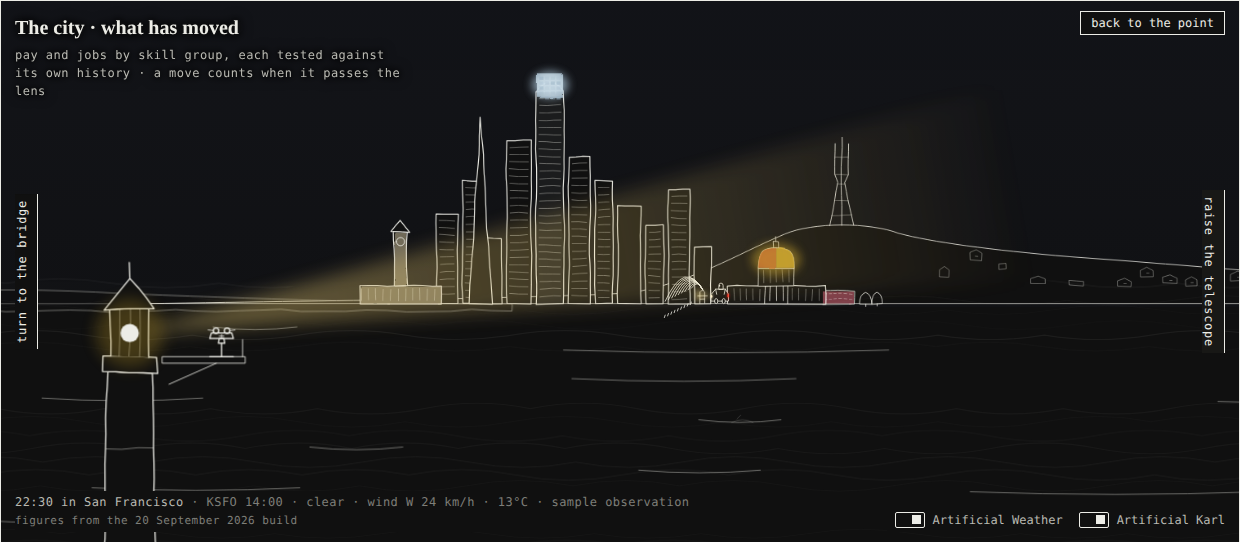
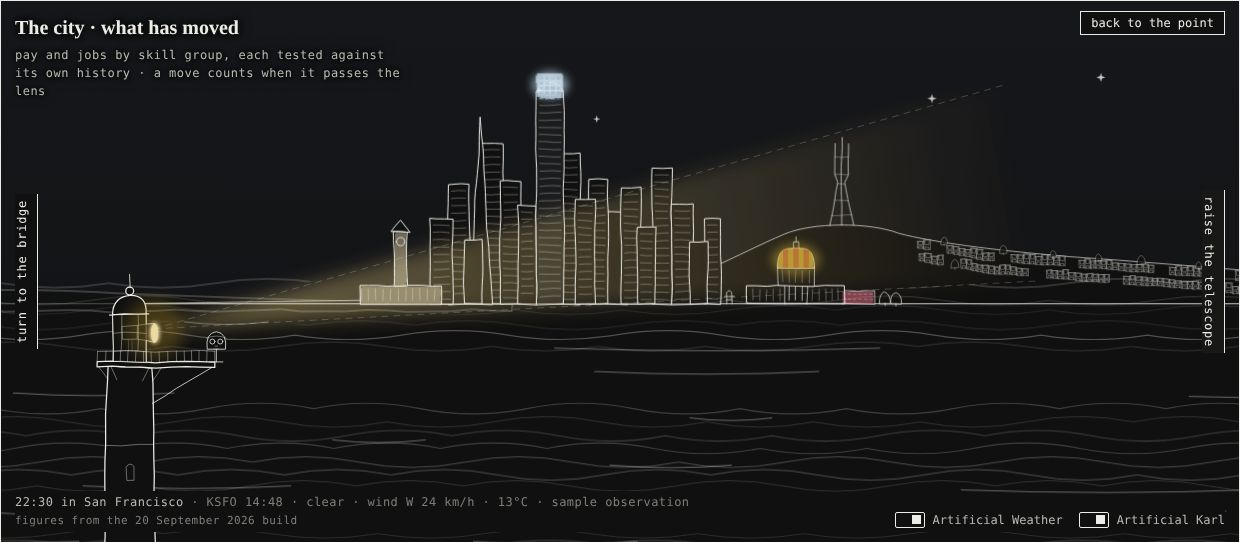
Front page: the lamp turns behind the glass and the hatched light leaves from its lens in every view; sun, moon and stars whole or not at all; City Hall lit in stripes; the hydrant's water alive; one launch at a time from different places; a whale's tail and a sailboat on the bay; the bear later; ci

diff --git a/docs/mockup/index.html b/docs/mockup/index.html
@@ -75,6 +75,7 @@ header.top{display:flex;align-items:baseline;justify-content:space-between;gap:1
 .carlight{opacity:0;transition:opacity .3s}.night .carlight{opacity:1}
 .lamp{filter:url(#lamp)}.beamcone{filter:url(#lampwide)}
 .tail{opacity:0;transition:opacity .2s}.night .tail{opacity:.45}.braking .tail{opacity:1}.night .braking .tail{fill:#FF2A1F !important;filter:url(#lamp)}
+#celes{transition:opacity .8s}
 .star{animation:twinkle 8s ease-in-out infinite;opacity:.85}
 @keyframes twinkle{0%,70%,100%{opacity:.85}78%{opacity:.15}86%{opacity:.9}}
 .water{animation:swell 6s ease-in-out infinite alternate}
@@ -237,6 +238,7 @@ header.top{display:flex;align-items:baseline;justify-content:space-between;gap:1
       </defs>
       <g class="zoom"><g id="skyall"><rect class="skywash" x="0" y="0" width="1600" height="342" fill="url(#skygrad)"/>
       <g id="sky" class="scene sky thin"></g></g></g>
+      <g id="celes" class="scene sky thin"></g>
       <g id="lifeback" class="life scene"></g>
     </svg>
     <!-- ================= the one scene from the point, painted once; the colour lies over the ink ================= -->
@@ -376,13 +378,15 @@ header.top{display:flex;align-items:baseline;justify-content:space-between;gap:1
     el("path", {d:`M${x+w/2+46} ${top+34} L ${x+w/2} ${top+62}`, class:"thin"}, g);
     // the lantern room: glass between mullions, on a low parapet
     el("path", {d:`M${x-13} ${top+30} L ${x-13} ${top-6} L ${x+13} ${top-6} L ${x+13} ${top+30} Z`, style:P}, g);
-    el("path", {d:`M${x-13} ${top+22} L ${x+13} ${top+22} M${x-6.5} ${top-6} L ${x-6.5} ${top+22} M${x+6.5} ${top-6} L ${x+6.5} ${top+22} M${x-13} ${top+8} L ${x+13} ${top+8}`, class:"hair"}, g);
+    const lampAt = el("g", {}, g);                                              // the lamp goes here, inside the room, behind the glass
+    el("path", {d:`M${x-13} ${top+30} L ${x-13} ${top-6} L ${x+13} ${top-6} L ${x+13} ${top+30} Z`, style:"fill:var(--paper);fill-opacity:.5;stroke:none"}, g);
+    el("path", {d:`M${x-13} ${top+22} L ${x+13} ${top+22} M${x-6.5} ${top-6} L ${x-6.5} ${top+22} M${x+6.5} ${top-6} L ${x+6.5} ${top+22} M${x-13} ${top+8} L ${x+13} ${top+8} M${x-13} ${top-6} L ${x-13} ${top+30} M${x+13} ${top-6} L ${x+13} ${top+30}`, class:"hair"}, g);
     // the roof: a shallow dome, its eave, the ventilator ball and the rod
     el("path", {d:`M${x-15} ${top-6} L ${x+15} ${top-6} M${x-13} ${top-6} Q ${x-13} ${top-20} ${x} ${top-21} Q ${x+13} ${top-20} ${x+13} ${top-6} Z`, style:P}, g);
     el("circle", {cx:x, cy:top-24, r:3, style:P}, g); el("path", {d:`M${x} ${top-27} L ${x} ${top-37}`, class:"thin"}, g);
     el("circle", {cx:x, cy:top+8, r:22, class:"halo", id:"halo"}, g);
     // the lamp: a drum on its yoke and a short barrel ending in the lens; it pokes out of the glass on the side it faces
-    const lamp = el("g", {id:"lamp", transform:`translate(${x},${top+8})`}, g);
+    const lamp = el("g", {id:"lamphead", transform:`translate(${x},${top+8})`}, lampAt);
     el("path", {d:"M -1.5 5 L -1.5 14 M 1.5 5 L 1.5 14", class:"hair"}, lamp);
     el("path", {d:"M -6 -5 L 6 -5 L 6 5 L -6 5 Z", class:"thin", style:P}, lamp);
     el("path", {d:"M 6 -5 L 19 -7 L 19 7 L 6 5 Z", class:"thin", style:P}, lamp);
@@ -511,17 +515,20 @@ header.top{display:flex;align-items:baseline;justify-content:space-between;gap:1
     const ridgeY = u => { for (let i=1;i<ridge.length;i++) if (u <= ridge[i][0]){ const [a, ya] = ridge[i-1], [b, yb] = ridge[i]; return ya + (yb-ya)*(u-a)/(b-a); } return -86; };
     { const rh = rng(97);
       const tree = (x, base, r) => el("path", {d:`M${x-r} ${base} q 0 ${-r*1.6} ${r} ${-r*1.9} q ${r} ${r*.3} ${r} ${r*1.9} z M${x} ${base} l 0 2`, class:"hair", style:"fill:var(--paper)"}, g);
-      // three rows, the highest first so the lower ones stand in front of it
-      for (const depth of [9, 21, 33]){
-        let u = 4 + rh()*10;
+      const house = (x, base, w_, h_) => {
+        el("path", {d:`M${x} ${base} L ${x} ${base-h_} L ${x+w_} ${base-h_} L ${x+w_} ${base} Z M${x-.5} ${base-h_} L ${x+w_+.5} ${base-h_}`, class:"hair", style:"fill:var(--paper)"}, g);
+        // a bay window above, a garage door below, as on the avenues
+        el("path", {d:`M${x+1.3} ${base-h_+1.6} L ${x+1.3} ${base-h_*.5} L ${x+w_-1.3} ${base-h_*.5} L ${x+w_-1.3} ${base-h_+1.6} M${x+1.6} ${base} L ${x+1.6} ${base-2.4} L ${x+w_-1.6} ${base-2.4} L ${x+w_-1.6} ${base}`, class:"hair"}, g); };
+      // two long rows along the contours, each broken by cross streets; the upper row first, so the lower stands in front
+      for (const depth of [15, 36]){
+        let u = 6 + rh()*10, run = 0, runLen = 6 + Math.floor(rh()*6);
         while (u < 600){
-          const base = b0 + ridgeY(u) + depth; if (base > b0 - 4){ u += 12; continue; }
-          if (rh() < .2){ tree(ox+u+5, base, 4 + rh()*2.5); u += 12 + rh()*10; continue; }          // a tree, or a gap in the row
-          if (rh() < .07){ u += 10 + rh()*14; continue; }
-          const w_ = 7 + rh()*4, h_ = 5 + rh()*3, pitched = rh() < .25, x = ox + u;
-          el("path", {d:`M${x} ${base} L ${x} ${base-h_} ${pitched ? `L ${x+w_/2} ${base-h_-3}` : ""} L ${x+w_} ${base-h_} L ${x+w_} ${base} Z`, class:"hair", style:"fill:var(--paper)"}, g);
-          if (rh() < .55) el("path", {d:`M${x+2} ${base-h_*.5} l 2.4 0`, class:"hair"}, g);
-          u += w_ - .2; } } }
+          const base = b0 + ridgeY(u) + depth; if (base > b0 - 5){ u += 10; continue; }
+          if (run >= runLen){ if (rh() < .5) tree(ox+u+8, base, 4 + rh()*2); u += 18 + rh()*10; run = 0; runLen = 6 + Math.floor(rh()*6); continue; }
+          const w_ = 9.5 + rh()*2.5, h_ = (rh() < .7 ? 11.5 : 15) + rh()*1.5;
+          house(ox + u, base, w_, h_); u += w_; run++; } }
+      // and trees along the top of the slope, above the houses
+      for (let u = 20; u < 590; u += 38 + rh()*40){ const base = b0 + ridgeY(u) + 3; if (base < b0 - 5) tree(ox + u, base, 3.5 + rh()*2); } }
     const sx = ox+700, sy = baseY-104;
     // Sutro: three masts, the outer pair upright at the top, pinched to a waist, splayed to the feet, tied by struts
     const H = 100;
@@ -586,8 +593,9 @@ header.top{display:flex;align-items:baseline;justify-content:space-between;gap:1
     const L = el("g", {transform:cityTransform}, LIGHTS), ox = 0, baseY = 8, [ca, cb] = nightPair(d);
     // the dome, split by the pair
     const hv = ox+CH, gy = baseY-8;
-    tint(L, domeHalf(hv, gy-44, 44, 24, -1), ca).classList.add("nightlight");
-    tint(L, domeHalf(hv, gy-44, 44, 24, 1), cb).classList.add("nightlight");
+    if (!$("#domeclip")){ const cp = el("clipPath", {id:"domeclip", clipPathUnits:"userSpaceOnUse"}, el("defs", {}, $("#L-lights"))); el("path", {d:domePath(hv, gy-44, 44, 24)}, cp); }
+    const stripes = el("g", {class:"nightlight", "clip-path":"url(#domeclip)"}, L);
+    for (let i=0;i<7;i++) el("rect", {x:hv-22 + i*44/7, y:gy-70, width:44/7 + .3, height:28, style:`fill:${i % 2 ? cb : ca};stroke:none;opacity:.85`}, stripes);
     // the crown: a soft wash and a grid of blocks that breathe out of step
     el("ellipse", {cx:hv, cy:gy-54, rx:30, ry:20, class:"nightlight", filter:"url(#glow)", style:`fill:${ca};stroke:none;fill-opacity:.5`}, L);
     el("ellipse", {cx:ox+1057, cy:baseY-276, rx:22, ry:16, class:"nightlight", filter:"url(#glow)", style:"fill:#9FB7C9;stroke:none"}, L);
@@ -641,16 +649,15 @@ header.top{display:flex;align-items:baseline;justify-content:space-between;gap:1
     const L = el("g", {"clip-path":"url(#eye-l)"}, g), R = el("g", {"clip-path":"url(#eye-r)"}, g);
     // left: the hills behind, the campus on its slope, its campanile over the trees, the bay in front
     // the hills behind: a ridge crowned with a ragged line of trees, a raised stand of them with a mast in it, then a sharp drop to the lower ridge
-    { const rr = rng(83), Lm = el("g", {transform:"translate(1300,0) scale(-1,1)"}, L);   // mirrored: the crest and its trees to the right, the cut to the left
-      let d = "M 480 400 L 480 304 C 500 300, 516 296, 530 292", x = 530;
-      const crown = u => u < 596 ? 292 - (u-530)/66*50 : 242 + (u-596)*0.08;              // the canopy's line: rising to its crest, then nearly level
-      while (x < 612){ const w = 5 + rr()*13, top = Math.min(crown(x), crown(x+w)) - 2 - rr()*7; d += ` Q ${(x+w*.5).toFixed(1)} ${top.toFixed(1)} ${(x+w).toFixed(1)} ${(crown(x+w) + rr()*2).toFixed(1)}`; x += w; }
-      d += ` Q ${(x+3).toFixed(1)} 254 ${(x+2).toFixed(1)} 264 Q ${(x+4).toFixed(1)} 272 ${(x+9).toFixed(1)} 275`; x += 9;   // the steep cut where the trees end
-      while (x < 820){ const w = 5 + rr()*9, y = 275 + (x-621)*0.04; d += ` Q ${(x+w/2).toFixed(1)} ${(y - 2 - rr()*4).toFixed(1)} ${(x+w).toFixed(1)} ${y.toFixed(1)}`; x += w; }
-      el("path", {d: d + " L 820 400 Z", class:"thin", style:"fill:var(--paper)"}, Lm);
+    { const rr = rng(83);
+      const crown = u => u < 598 ? 280 - (u-480)*0.03 : u < 664 ? 276 - (u-598)/66*40 : u < 740 ? 236 - Math.sin((u-664)/76*Math.PI)*3 : 236 + (u-740)*0.2;
+      const bump = u => (u > 598 && u < 760) ? 3 + rr()*6 : 1.5 + rr()*3.5;           // the raised trees on the mane, lower ones elsewhere
+      let d = `M 480 400 L 480 ${crown(480).toFixed(1)}`, x = 480;
+      while (x < 820){ const w = (x > 598 && x < 760 ? 6 : 5) + rr()*9; d += ` Q ${(x+w*.5).toFixed(1)} ${(Math.min(crown(x), crown(x+w)) - bump(x)).toFixed(1)} ${(x+w).toFixed(1)} ${(crown(x+w) + rr()*1.5).toFixed(1)}`; x += w; }
+      el("path", {d: d + " L 820 400 Z", class:"thin", style:"fill:var(--paper)"}, L);
       // the grass below the trees: the hill's own shoulder, and a pale fold lower down
-      el("path", {d:"M 500 322 C 570 306, 640 298, 706 296 C 750 296, 790 300, 820 304", class:"hair"}, Lm);
-      el("path", {d:"M 540 342 C 600 332, 670 330, 740 336", class:"hair"}, Lm);
+      el("path", {d:"M 480 312 C 560 304, 640 294, 700 288 C 760 284, 800 290, 820 294", class:"hair"}, L);
+      el("path", {d:"M 520 336 C 600 326, 680 322, 760 328", class:"hair"}, L);
     }
     box(L, 616, 352, 56, 42, true); box(L, 706, 360, 70, 34, true); box(L, 530, 370, 30, 24, false);
     el("path", {d:"M 579 394 L 579 244 L 576 244 L 590 222 L 604 244 L 601 244 L 601 394 Z", style:"fill:var(--paper);stroke:none"}, L);
@@ -669,7 +676,6 @@ header.top{display:flex;align-items:baseline;justify-content:space-between;gap:1
     for (let i=0;i<2;i++){ const y = 452 + i*14; el("path", {d:`M ${510 + i*10} ${y} q 40 -3 80 0 M ${660 - i*14} ${y+5} q 50 -3 100 0`, class:"hair"}, L); }
     // right: the foothills and the dish on them, the tower over the arcaded quad, palms along the front
     el("path", {d:"M 780 262 C 850 236, 930 230, 1000 244 C 1050 254, 1090 256, 1130 262 L 1130 400 L 780 400 Z", class:"thin", style:"fill:var(--paper)"}, R);
-    el("path", {d:"M 1012 248 a 12 7 0 0 1 24 0 Z M 1024 248 L 1024 238", class:"thin"}, R);
     const tx = 930;
     el("path", {d:`M ${tx-10} 372 L ${tx-10} 252 L ${tx+10} 252 L ${tx+10} 372 Z M ${tx-12} 252 L ${tx+12} 252 L ${tx+12} 236 L ${tx-12} 236 Z M ${tx-8} 236 C ${tx-8} 224, ${tx+8} 224, ${tx+8} 236 M ${tx} 224 L ${tx} 216 M ${tx-4} 244 L ${tx+4} 244 M ${tx-4} 270 L ${tx+4} 270 M ${tx-4} 300 L ${tx+4} 300`, style:"fill:var(--paper)"}, R);
     tintRect(R, tx-9, 237, 18, 135, "var(--sandstone)");
@@ -710,16 +716,15 @@ header.top{display:flex;align-items:baseline;justify-content:space-between;gap:1
       const dx = c[0]-lantern[0], dy = c[1]-lantern[1], len = Math.hypot(dx, dy), nx = -dy/len, ny = dx/len, w = len*0.11, ext = 1.35;
       const f = [lantern[0] + dx*ext, lantern[1] + dy*ext];
       far = [[f[0] + nx*w*ext, f[1] + ny*w*ext], [f[0] - nx*w*ext, f[1] - ny*w*ext]];
-      beamPath.setAttribute("d", "");
     }
     const farFg = far.map(e => screenToFg(view, e));
     const mid = [(farFg[0][0]+farFg[1][0])/2, (farFg[0][1]+farFg[1][1])/2];
     // turn the lamp to face the middle of what it lights; the light leaves from its lens
     const ddx = mid[0]-LANTERN[0], ddy = mid[1]-LANTERN[1], dir = ddx >= 0 ? 1 : -1, tilt = Math.max(-.5, Math.min(.5, Math.atan2(ddy, Math.abs(ddx))));
-    $("#lamp").setAttribute("transform", `translate(${LANTERN[0]},${LANTERN[1]}) scale(${dir},1) rotate(${(tilt*180/Math.PI).toFixed(1)})`);
+    $("#lamphead").setAttribute("transform", `translate(${LANTERN[0]},${LANTERN[1]}) scale(${dir},1) rotate(${(tilt*180/Math.PI).toFixed(1)})`);
     const lens = [LANTERN[0] + dir*19*Math.cos(tilt), LANTERN[1] + 19*Math.sin(tilt)];
     $("#halo").setAttribute("cx", lens[0].toFixed(1)); $("#halo").setAttribute("cy", lens[1].toFixed(1));
-    if (!zoomed) beamPath.setAttribute("d", farFg.map(([x, y]) => `M${lens[0].toFixed(1)} ${lens[1].toFixed(1)} L ${x.toFixed(1)} ${y.toFixed(1)}`).join(" "));
+    beamPath.setAttribute("d", farFg.map(([x, y]) => `M${lens[0].toFixed(1)} ${lens[1].toFixed(1)} L ${x.toFixed(1)} ${y.toFixed(1)}`).join(" "));
     $("#beamlight").setAttribute("points", [lens, ...farFg].map(q => q.map(v => v.toFixed(1)).join(",")).join(" "));
     const g = $("#beamgrad");
     g.setAttribute("x1", lens[0].toFixed(1)); g.setAttribute("y1", lens[1].toFixed(1)); g.setAttribute("x2", mid[0].toFixed(1)); g.setAttribute("y2", mid[1].toFixed(1));
@@ -805,7 +810,9 @@ header.top{display:flex;align-items:baseline;justify-content:space-between;gap:1
     fogTimers[0] = setTimeout(()=>stage.classList.add("turning"), 260);
     fogTimers[1] = setTimeout(()=>{ stage.classList.remove("turning"); requestAnimationFrame(()=>requestAnimationFrame(()=>stage.classList.remove("fogout"))); }, 1450);
     hold(); light(null);
-    for (const id of ["life", "skyall", "lifeback"]){ if (view === "valley") $("#"+id).setAttribute("mask", "url(#binoc)"); else $("#"+id).removeAttribute("mask"); }
+    if (lastView !== null && lastView !== view){ $("#celes").style.opacity = 0; clearTimeout(celesTimer); celesTimer = setTimeout(()=>{ $("#celes").style.opacity = 1; }, 1450); }
+    lastView = view;
+    for (const id of ["life", "skyall", "lifeback", "celes"]){ if (view === "valley") $("#"+id).setAttribute("mask", "url(#binoc)"); else $("#"+id).removeAttribute("mask"); }
     const r = R[view];
     // the one drawing scales about the place turned to; the lighthouse in front shrinks to the base of the frame
     const {c, s: zs} = ZOOM[view];
@@ -943,7 +950,12 @@ header.top{display:flex;align-items:baseline;justify-content:space-between;gap:1
   function yOfAltitude(alt){ return 340 - Math.max(-12, Math.min(70, alt))*4.6; }
   const HEADING = { home:105, city:125, bridge:100, valley:150 };
 
-  const sky = $("#sky"), skyFront = $("#skyfront");
+  const sky = $("#sky"), skyFront = $("#skyfront"), celes = $("#celes"); let celesTimer = null, lastView = null;
+  // where a body in the sky sits on the screen for this view, or null if it would not be wholly in the frame
+  function inFrame(view, x, y, r){
+    let [sx, sy] = (view === "home" || view === "valley") ? [x, y] : toScreen(view, x, y);
+    if (view === "home" || view === "valley") sx = Math.max(r + 20, Math.min(1600 - r - 20, sx));
+    return (sx - r < 10 || sx + r > 1590 || sy - r < 10) ? null : [sx, sy]; }
   // The sky's own colour: the faintest wash, blue by day, warm at the horizon around dawn and dusk, a deep
   // blue at night. Each is a pair of stops keyed to the sun's altitude and blended between the keys.
   const SKYKEYS = [[-18, ["#1B2238", .3, "#1B2238", .12]], [-7, ["#7A7CA6", .2, "#E9A27A", .16]], [-1, ["#C4BEDD", .2, "#F2B48C", .22]],
@@ -969,7 +981,7 @@ header.top{display:flex;align-items:baseline;justify-content:space-between;gap:1
     document.documentElement.style.setProperty("--cdrift", cross + "s");
     document.documentElement.style.setProperty("--rfall", (o.wind_kmh > 40 ? .7 : 1.1) + "s");
     document.querySelectorAll(".fog").forEach(g=>{ g.style.opacity = Math.max(w.fog, .4); });
-    sky.innerHTML = ""; skyFront.innerHTML = "";
+    sky.innerHTML = ""; skyFront.innerHTML = ""; celes.innerHTML = "";
     const r = rng(w.clouds*13+7), clock = Date.now()/1000;
     // most cloud is behind the land and the bridge; one in four passes in front of them
     for (let i=0;i<w.clouds*3;i++){ const y = 110 + r()*90, wd = 80 + r()*140, front = !w.streak && i % 4 === 3;
@@ -989,17 +1001,18 @@ header.top{display:flex;align-items:baseline;justify-content:space-between;gap:1
     document.documentElement.dataset.theme = night ? "dark" : "light";
     stage.classList.toggle("night", night); stage.classList.toggle("dusk", dusk);
     drawLights(now);
-    if (sun.alt > -2 && !w.band && w.fog < .9){
-      const x = xOfAzimuth(sun.az), y = yOfAltitude(sun.alt);
-      el("path", {d:`M ${x} ${y} m -22 0 a 22 22 0 1 0 44 0 a 22 22 0 1 0 -44 0 M ${x} ${y-34} l 0 -10 M ${x} ${y+34} l 0 10 M ${x-34} ${y} l -10 0 M ${x+34} ${y} l 10 0`, class:"thin sun"}, sky);
+    const sunAt = (sun.alt > -2 && !w.band && w.fog < .9) ? inFrame(view, xOfAzimuth(sun.az), yOfAltitude(sun.alt), 46) : null;
+    if (sunAt){ const [x, y] = sunAt;
+      el("path", {d:`M ${x} ${y} m -22 0 a 22 22 0 1 0 44 0 a 22 22 0 1 0 -44 0 M ${x} ${y-34} l 0 -10 M ${x} ${y+34} l 0 10 M ${x-34} ${y} l -10 0 M ${x+34} ${y} l 10 0`, class:"thin sun", style:"fill:var(--paper)"}, celes);
     }
     if (night){ const rs = rng(Math.floor(Date.now()/86400e3)); const n = 4 + Math.floor(rs()*2);
       for (let i=0;i<n;i++){ const x = 480 + rs()*1080, y = 40 + rs()*120, sz = 2 + rs()*1.6;
-        const st = el("path", {d:`M ${x} ${y-sz*2} L ${x+sz*.45} ${y-sz*.45} L ${x+sz*2} ${y} L ${x+sz*.45} ${y+sz*.45} L ${x} ${y+sz*2} L ${x-sz*.45} ${y+sz*.45} L ${x-sz*2} ${y} L ${x-sz*.45} ${y-sz*.45} Z`, class:"star", style:"fill:var(--ink);stroke:none"}, sky);
+        const st = el("path", {d:`M ${x} ${y-sz*2} L ${x+sz*.45} ${y-sz*.45} L ${x+sz*2} ${y} L ${x+sz*.45} ${y+sz*.45} L ${x} ${y+sz*2} L ${x-sz*.45} ${y+sz*.45} L ${x-sz*2} ${y} L ${x-sz*.45} ${y-sz*.45} Z`, class:"star", style:"fill:var(--ink);stroke:none"}, celes);
         st.style.animationDuration = (5 + rs()*7).toFixed(1) + "s"; st.style.animationDelay = (-rs()*10).toFixed(1) + "s"; } }
     // the moon is drawn at its phase and where it is; on a night it has set, the drawing keeps it low over the horizon anyway
-    if ((moon.alt > 0 || night) && (night || sun.alt < 4) && w.fog < .9){
-      const x = xOfAzimuth(moon.alt > 0 ? moon.az : (moon.az + 180) % 360), y = yOfAltitude(Math.max(moon.alt, night ? 16 : 0)), g = el("g", {class:"moon thin"}, sky);
+    const moonAt = ((moon.alt > 0 || night) && (night || sun.alt < 4) && w.fog < .9) ? inFrame(view, xOfAzimuth(moon.alt > 0 ? moon.az : (moon.az + 180) % 360), yOfAltitude(Math.max(moon.alt, night ? 16 : 0)), 20) : null;
+    if (moonAt){
+      const [x, y] = moonAt, g = el("g", {class:"moon thin"}, celes);
       // the lit side: a lens between the limb and the terminator, phase 0 new, .5 full. After dark the lit
       // side is drawn in ink, which is white then; by day the disc is shaded and the lit side is left paper.
       const k = Math.cos(phase*2*Math.PI), sweep = phase < .5 ? 1 : 0;
@@ -1034,7 +1047,7 @@ header.top{display:flex;align-items:baseline;justify-content:space-between;gap:1
   const life = $("#life");
   const reduced = matchMedia("(prefers-reduced-motion: reduce)").matches;
   function tween(ms, step, done){ const t0 = performance.now(); (function f(t){ const k = Math.min(1, (t - t0)/ms); step(k); if (k < 1) requestAnimationFrame(f); else if (done) done(); })(t0); }
-  let taxiUntil = 0, bearUp = false;        // one robotaxi on the road at a time; one bear
+  let taxiUntil = 0, bearUp = false, rocketUntil = 0, whaleUp = false;        // one robotaxi on the road at a time; one bear
   const EVENTS = {
     gull(){ if (stage.classList.contains("night")) return; // one to three, each its own size, pace, bob and wingbeat
       const n = 1 + Math.floor(Math.random()*Math.random()*3), ltr = Math.random() < .5, y0 = 130 + Math.random()*140, dur = 12000 + Math.random()*10000;
@@ -1093,9 +1106,10 @@ header.top{display:flex;align-items:baseline;justify-content:space-between;gap:1
         g.setAttribute("transform", `translate(${x.toFixed(1)},${y.toFixed(1)}) rotate(${rot.toFixed(1)}) scale(${(dir*sc).toFixed(3)},${sc.toFixed(3)})`);
         prev = [x, y];
       }, ()=>g.remove()); },
-    rocket(){ const view = stage.dataset.view; if (view === "city") return EVENTS.gull();
-      // it lifts from behind the hills south of the city, or, through the eyepieces, from the south bay's campus
-      const [x0, y0] = view === "valley" ? [930, 262] : view === "home" ? [1540, 344] : [1480, toScreen("bridge", 0, 338)[1]];
+    rocket(){ const view = stage.dataset.view; if (view === "city") return EVENTS.gull(); if (performance.now() < rocketUntil) return; rocketUntil = performance.now() + 16000;
+      // it lifts from behind the hills south of the city, or, through the eyepieces, from somewhere in the south bay, never the same spot twice running
+      const vx = () => { let x; do { x = 830 + Math.random()*270; } while (Math.abs(x - 930) < 40); return x; };
+      const [x0, y0] = view === "valley" ? [vx(), 268] : view === "home" ? [1440 + Math.random()*140, 344] : [1370 + Math.random()*190, toScreen("bridge", 0, 338)[1]];
       const g = el("g", {class:"thin"}, life); if (view === "home") g.setAttribute("clip-path", "url(#behind-hills)");
       el("path", {d:"M-3 0 L -3 -20 Q 0 -30 3 -20 L 3 0 Z M-3 -5 L -7 2 L -3 0 M 3 -5 L 7 2 L 3 0", style:"fill:var(--paper)"}, g);
       const plume = el("g", {class:"hair"}, g);
@@ -1133,7 +1147,9 @@ header.top{display:flex;align-items:baseline;justify-content:space-between;gap:1
       const dome = el("circle", {cx:2, cy:-18, r:1.2, class:"solid"}, car); let d = 0; const spin = setInterval(()=>{ dome.setAttribute("cx", 2 + Math.cos(d+=.6)*3); }, 80);
       // the water, from the drawn hydrant's cap, pouring toward the car
       const spout = el("g", {class:"thin", transform:`translate(${hx},${hy}) scale(${-k},${k})`}, life); spout.style.opacity = 0;
-      for (let i=0;i<9;i++) el("path", {d:`M0 -17 q ${6 + i*2} ${-14 - i*3} ${14 + i*4} ${-2 + i*2} M${14 + i*4} ${-2 + i*2} l 1 3`}, spout);
+      const sprayD = i => { const j = .85 + Math.random()*.3, h = (14 + i*3)*j, r = (14 + i*4)*(.9 + Math.random()*.2); return `M0 -17 q ${(r*.45).toFixed(1)} ${(-h).toFixed(1)} ${r.toFixed(1)} ${(-2 + i*2).toFixed(1)} M${(r + Math.random()*2).toFixed(1)} ${(-1 + i*2 + Math.random()*3).toFixed(1)} l ${(Math.random()*1.5).toFixed(1)} ${(2 + Math.random()*2).toFixed(1)}`; };
+      const arcs = []; for (let i=0;i<9;i++) arcs.push(el("path", {d:sprayD(i)}, spout));
+      const spray = setInterval(()=>{ if (!spout.isConnected) return clearInterval(spray); arcs.forEach((a, i) => a.setAttribute("d", sprayD(i))); }, 110);
       const stop = hx + 20*S;
       tween(11000*(.85 + Math.random()*.3), k=>{ const x = x0 + Math.min(k*1.12, 1)*(stop-x0); const bump = k > .89 ? Math.sin((k-.89)*70)*2.5*(1-k)/.11 : 0; g.setAttribute("transform", `translate(${x+bump},${y})`); if (k > .86) car.classList.add("braking"); if (k > .89) spout.style.opacity = Math.min(1, (k-.89)*12); },
         ()=>{ tween(2200, k=>{ spout.style.opacity = 1; }, ()=>{ tween(900, k=>{ car.setAttribute("transform", `scale(${S*(1 - 2*k)}, ${S})`); }, ()=>{ car.classList.remove("braking"); tween(6000, k=>{ g.setAttribute("transform", `translate(${stop + k*k*(1700-stop)},${y})`); spout.style.opacity = 1 - k; }, ()=>{ clearInterval(spin); g.remove(); spout.remove(); }); }); }); }); },
@@ -1144,7 +1160,33 @@ header.top{display:flex;align-items:baseline;justify-content:space-between;gap:1
         setTimeout(()=>tween(1400, k=>at(-9 + 17*k*k, 1), ()=>{ bearUp = false; }), 1600); }, 1400); }, 1500); }); },
     gust(){ stage.classList.add("gust"); document.querySelectorAll(".gull").forEach(p=>{ p.style.transition = "transform .8s"; p.style.transform = "rotate(-22deg)"; });
       setTimeout(()=>{ stage.classList.remove("gust"); }, 5000); },
-    ferry(){ if (stage.dataset.view !== "bridge") return EVENTS.gull();
+    sail(){ if (stage.dataset.view !== "bridge") return EVENTS.gull();
+      const g = el("g", {class:"thin"}, life), boat = el("g", {}, g), P = "fill:var(--paper)";
+      el("path", {d:"M -22 0 L 24 0 L 17 7 L -16 7 Z", style:P}, boat);
+      el("path", {d:"M 0 0 L 0 -44", class:"thin"}, boat);
+      el("path", {d:"M 1.5 -42 Q 14 -24 21 -3 L 1.5 -3 Z", style:P}, boat);
+      el("path", {d:"M -1.5 -38 L -1.5 -4 L -17 -4 Z", style:P}, boat);
+      el("circle", {cx:0, cy:-45, r:1.3, class:"carlight lamp", style:"fill:#FFFFFF;stroke:none"}, boat);
+      el("circle", {cx:-20, cy:2, r:1.3, class:"carlight lamp", style:"fill:#FF3B30;stroke:none"}, boat);
+      const y = 500 + Math.random()*70, dur = 60000 + Math.random()*20000, heel = 3 + Math.random()*4, sc = .8 + Math.random()*.3;
+      tween(dur, k=>{ g.setAttribute("transform", `translate(${-60 + k*1760},${y + Math.sin(k*34)*1.6}) scale(${sc}) rotate(${-heel + Math.sin(k*23)*1.5})`); }, ()=>g.remove()); },
+    whale(){ if (stage.dataset.view !== "bridge" || whaleUp) return; whaleUp = true;
+      // a back breaks the water, then the tail lifts, sheds its water, and slides back under
+      const x = 640 + Math.random()*360, y = 420 + Math.random()*90, sc = 1.5 + Math.random()*.5, P = "fill:var(--paper)";
+      const defs = $("#L-life defs"); $("#whaleclip")?.remove();
+      const cp = el("clipPath", {id:"whaleclip", clipPathUnits:"userSpaceOnUse"}, defs); el("rect", {x:0, y:0, width:1600, height:y}, cp);
+      const g = el("g", {class:"thin"}, life), clip = el("g", {"clip-path":"url(#whaleclip)"}, g);
+      const back = el("path", {d:`M ${x-46*sc} ${y+10} Q ${x-20*sc} ${y-14*sc} ${x+6*sc} ${y+10} Z`, style:P}, clip);
+      const tail = el("g", {}, clip), flukes = el("g", {}, tail);
+      el("path", {d:"M -3 0 L -2.2 -16 Q -12 -19 -24 -28 Q -12 -27 0 -22 Q 12 -27 24 -28 Q 12 -19 2.2 -16 L 3 0 Z", style:P}, flukes);
+      const drips = el("g", {class:"hair"}, tail); for (let i=0;i<6;i++) el("path", {d:`M ${-22 + i*8.8} -24 l 0 ${4 + Math.random()*6}`}, drips); drips.style.opacity = 0;
+      const ring = el("path", {d:`M ${x-40*sc} ${y+3} q ${40*sc} -6 ${80*sc} 0`, class:"hair"}, g); ring.style.opacity = 0;
+      const at = (dy, rot) => tail.setAttribute("transform", `translate(${x},${y + dy}) scale(${sc}) rotate(${rot})`); at(40, 0);
+      tween(2200, k=>{ back.setAttribute("transform", `translate(0,${(k < .5 ? 1 - k*2 : (k-.5)*2)*18})`); }, ()=>{ back.remove();
+        tween(1800, k=>{ at(40 - k*44, -8 + k*10); }, ()=>{ drips.style.opacity = 1;
+          tween(1600, k=>{ at(-4 + Math.sin(k*6)*1.2, 2 - k*4); drips.setAttribute("transform", `translate(0,${k*10})`); drips.style.opacity = 1 - k; }, ()=>{
+            ring.style.opacity = 1; tween(2000, k=>{ at(-4 + k*48, -2 - k*14); ring.style.opacity = 1 - k*.8; ring.setAttribute("transform", `translate(${x} ${y}) scale(${1 + k*.6},1) translate(${-x} ${-y})`); }, ()=>{ g.remove(); cp.remove(); whaleUp = false; }); }); }); }); },
+    ferry(){ if (stage.dataset.view !== "bridge") return EVENTS.gull(); if (Math.random() < .5) return EVENTS.sail();
       const g = el("g", {class:"thin"}, life); el("path", {d:"M0 0 l -30 0 l 6 10 l 48 0 l 6 -10 z M-14 0 l 0 -10 l 22 0 l 0 10 M-4 -10 l 0 -9"}, g, ).style.fill = "var(--paper)";
       for (let i=0;i<3;i++) el("rect", {x:-11 + i*6, y:-7, width:3, height:3, class:"carlight lamp", style:"fill:#F8DC8C;stroke:none"}, g);
       el("circle", {cx:-4, cy:-19, r:1.4, class:"carlight lamp", style:"fill:#FFFFFF;stroke:none"}, g);
@@ -1153,12 +1195,13 @@ header.top{display:flex;align-items:baseline;justify-content:space-between;gap:1
       const y = 530 + Math.random()*50, dur = 44000 + Math.random()*16000, bob = 1 + Math.random()*1.5;
       tween(dur, k=>{ g.setAttribute("transform", `translate(${-80 + k*1780},${y + Math.sin(k*28)*bob})`); }, ()=>g.remove()); },
   };
-  const WEIGHTS = [["gull",5],["plane",4],["gust",1],["ferry",2],["rocket",4],["robotaxi",1],["bear",3]];
+  const WEIGHTS = [["gull",5],["plane",4],["gust",1],["ferry",2],["rocket",4],["robotaxi",1],["bear",3],["whale",3]];
   const PLANE_KIND = params.get("plane");
   const FORCE_FAIL = params.get("rocket") === "fail";
-  const WELCOME = { city:"robotaxi", bridge:"bear", home:"gull", valley:"rocket" };
+  const WELCOME = { city:[["robotaxi", 6000]], bridge:[["ferry", 2600], ["bear", 15000], ["whale", 30000]], home:[["gull", 2600]], valley:[["rocket", 2600]] };
   let welcomeTimer = null;
-  function welcome(view){ clearTimeout(welcomeTimer); if (reduced || params.get("event")) return; welcomeTimer = setTimeout(()=>{ if (stage.dataset.view === view) EVENTS[WELCOME[view]](); }, view === "city" ? 6000 : 2600); }
+  function welcome(view){ (welcomeTimer || []).forEach(clearTimeout); if (reduced || params.get("event")) return;
+    welcomeTimer = WELCOME[view].map(([e, ms]) => setTimeout(()=>{ if (stage.dataset.view === view) EVENTS[e](); }, ms)); }
   function pick(){ const total = WEIGHTS.reduce((a,[,w])=>a+w,0); let r = Math.random()*total; for (const [k,w] of WEIGHTS){ if ((r -= w) < 0) return k; } return "gull"; }
   // the first thing to happen on the bay, a little after arriving, is a launch; after that, whatever comes
   let firstEvent = true;
